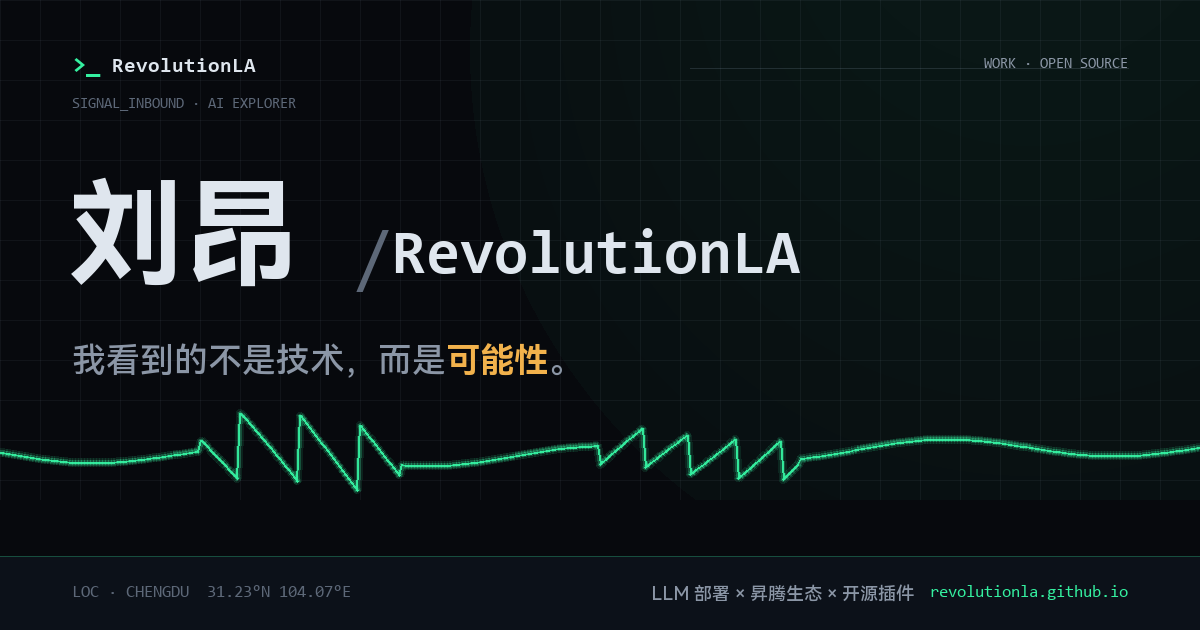
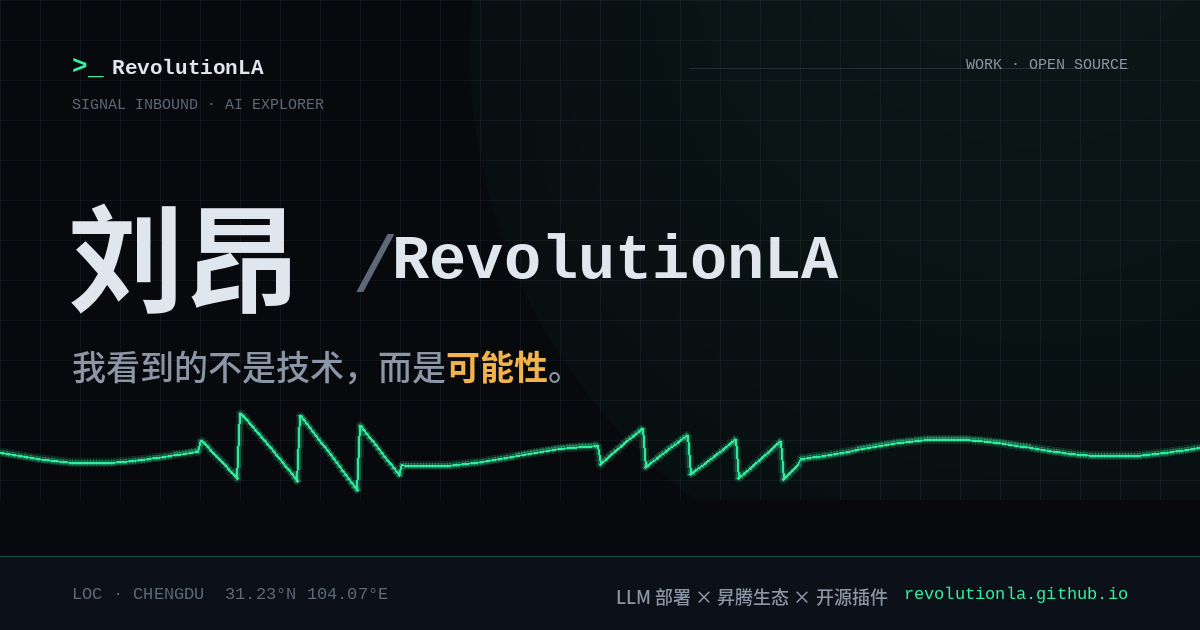
fix: 上线收尾——sitemap 日期跟上新版，og 卡换到本机也能重画
- sitemap 首页 lastmod 从 2026-09-27 改成线上响应真正报出的 2026-10-05
  （按检查器同一套约定：取 Last-Modified 折算北京时间）
- gen-og-image.py 原来把字体路径写死成 C:/Windows/Fonts，在这台机器上直接
  OSError；改成按候选表解析（Windows 用 HarmonyOS Sans SC + Consolas，Linux
  用 Noto Sans CJK SC + Liberation Mono，后者与 Consolas 度量兼容），
  .ttc 还要自己找出 SC 那一面，免得哪天字体包换了面序就悄悄画成日文变体
- 顺手修掉分享卡上的 SIGNAL_INBOUND 下划线，与主页 hero 那行丝印一致

diff --git a/tools/gen-og-image.py b/tools/gen-og-image.py
@@ -2,20 +2,59 @@
 
     python tools/gen-og-image.py
 
-Requires Pillow and the HarmonyOS Sans SC / Consolas fonts that the site's own
-artwork leans on; on a machine without them, edit F below to any CJK-capable TTF.
+Needs Pillow plus one CJK sans with a Bold and a Medium cut, and a monospace.
+The card was first drawn with HarmonyOS Sans SC + Consolas on Windows; the same
+layout is reproduced on Linux with Noto Sans CJK SC + Liberation Mono (which is
+metric-compatible with Consolas, so the mono rows land where they were designed
+to). Each face is resolved from a candidate list, so the tool runs on either box
+instead of only the one it was first written on.
 """
 import math
 import os
+import sys
 
 from PIL import Image, ImageDraw, ImageFont
 
 ROOT = os.path.dirname(os.path.dirname(os.path.abspath(__file__)))
-F = "C:/Windows/Fonts"
-ZH_B = os.path.join(F, "HarmonyOS_Sans_SC_Bold.ttf")
-ZH_M = os.path.join(F, "HarmonyOS_Sans_SC_Medium.ttf")
-MONO_B = os.path.join(F, "consolab.ttf")
-MONO_R = os.path.join(F, "consola.ttf")
+
+
+def _face(candidates, want_sc=True):
+    """First existing font file wins; for a .ttc, find the face index that is the
+    Simplified-Chinese one. Hardcoding index=2 would quietly switch the card to
+    Japanese glyph variants the day the package reorders its faces."""
+    for path in candidates:
+        if not os.path.exists(path):
+            continue
+        if not want_sc:
+            return path, 0
+        for i in range(12):
+            try:
+                f = ImageFont.truetype(path, 12, index=i)
+            except OSError:
+                break
+            if "SC" in f.getname()[0]:
+                return path, i
+        return path, 0          # 单面字体：没有 SC 变体可挑，就用第一个
+    return None, 0
+
+
+ZH_B = _face(["C:/Windows/Fonts/HarmonyOS_Sans_SC_Bold.ttf",
+              "/usr/share/fonts/opentype/noto/NotoSansCJK-Bold.ttc"])
+ZH_M = _face(["C:/Windows/Fonts/HarmonyOS_Sans_SC_Medium.ttf",
+              "/usr/share/fonts/opentype/noto/NotoSansCJK-Medium.ttc"])
+MONO_B = _face(["C:/Windows/Fonts/consolab.ttf",
+                "/usr/share/fonts/truetype/liberation/LiberationMono-Bold.ttf"],
+               want_sc=False)
+MONO_R = _face(["C:/Windows/Fonts/consola.ttf",
+                "/usr/share/fonts/truetype/liberation/LiberationMono-Regular.ttf"],
+               want_sc=False)
+_missing = [n for n, spec in (("中文 Bold", ZH_B), ("中文 Medium", ZH_M),
+                              ("等宽 Bold", MONO_B), ("等宽 Regular", MONO_R))
+            if spec[0] is None]
+if _missing:
+    sys.exit("gen-og-image: no font found for %s - point _face() at a local file "
+             "instead of shipping a card drawn with a fallback font"
+             % ", ".join(_missing))
 
 W, H = 1200, 630
 SPACE0 = (7, 9, 13)
@@ -45,8 +84,9 @@ for y in range(0, H, 40):
     d.line([(0, y), (W, y)], fill=(148, 168, 190, 18), width=1)
 
 
-def font(path, size):
-    return ImageFont.truetype(path, size)
+def font(spec, size):
+    path, index = spec
+    return ImageFont.truetype(path, size, index=index)
 
 
 # 示波器波形（右下角，站点 hero 同款折线语汇）
@@ -69,7 +109,7 @@ d.line(pts, fill=(52, 240, 160, 90), width=1)
 # 顶部 mono 标签
 d.text((72, 52), ">_", font=font(MONO_B, 26), fill=SIGNAL)
 d.text((112, 56), "RevolutionLA", font=font(MONO_B, 21), fill=INK)
-d.text((72, 96), "SIGNAL_INBOUND · AI EXPLORER", font=font(MONO_R, 15), fill=FAINT)
+d.text((72, 96), "SIGNAL INBOUND · AI EXPLORER", font=font(MONO_R, 15), fill=FAINT)
 d.line([(690, 68), (W - 72, 68)], fill=(148, 168, 190, 46), width=1)
 # 不带项目计数：数字会随主页增删而失真
 d.text((W - 72, 56), "WORK · OPEN SOURCE", font=font(MONO_R, 15), fill=DIM, anchor="ra")
